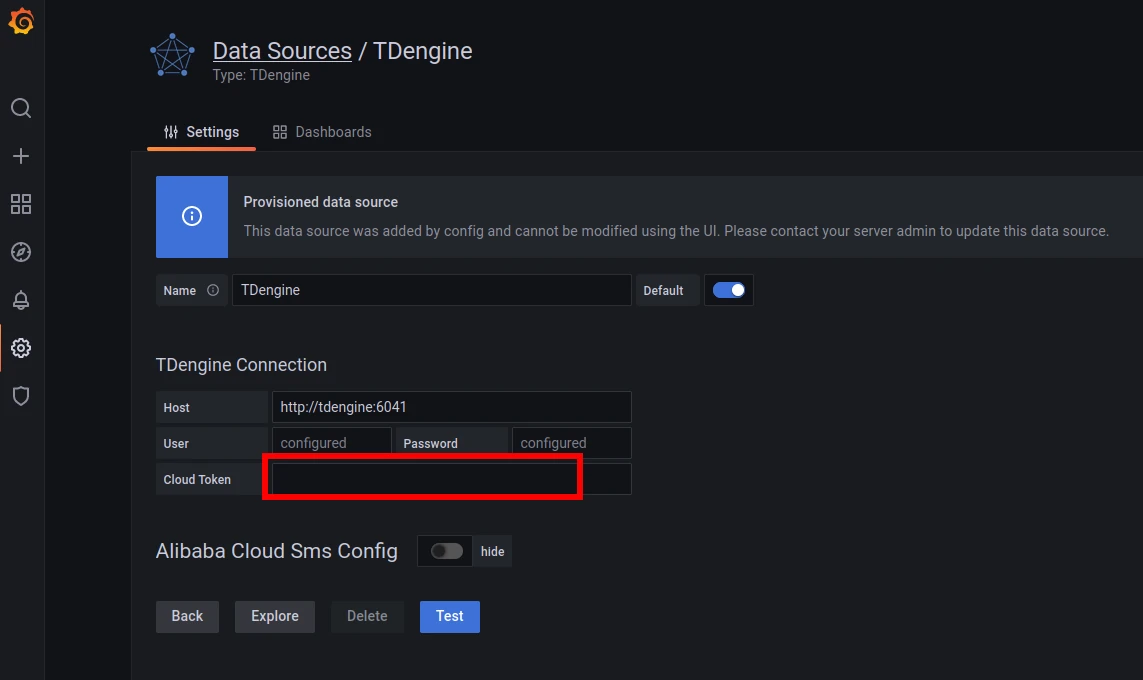
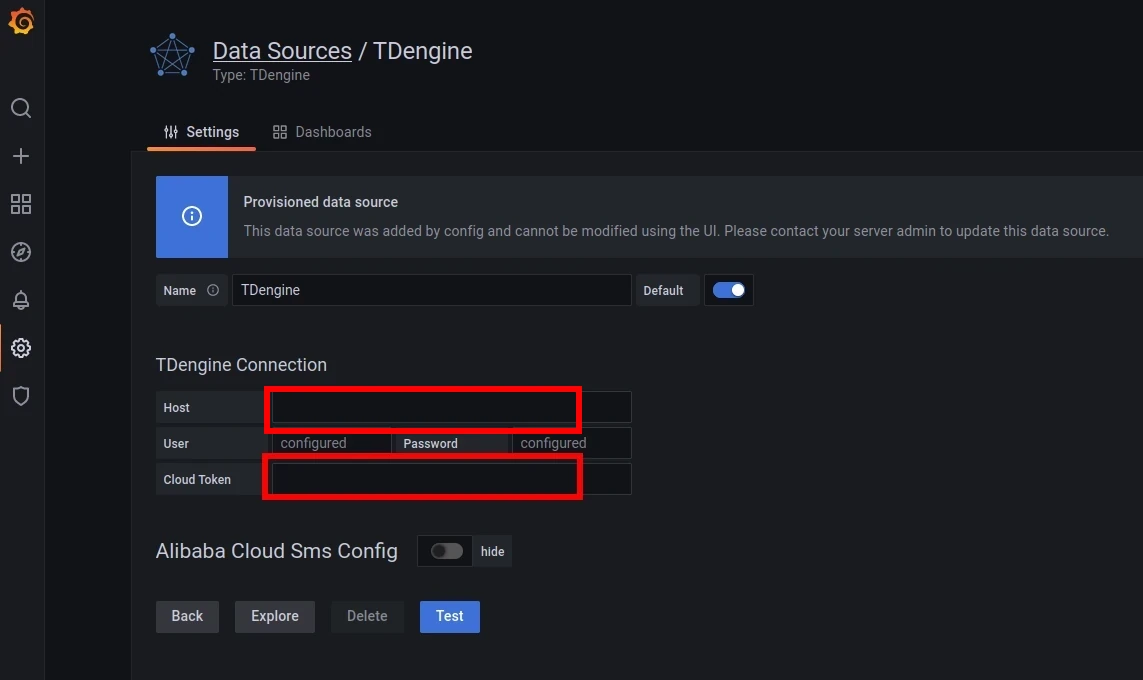
docs: refine cloud doc grafana (#13585)
* docs: describe how grafana connect cloud

* docs: update latest version

* docs: describe how grafana to connect cloud

* docs: refine 08-third-party/01-grafana.md

* docs: update add_datasource4.webp

* docs: refine 08-third-party/01-grafana.md

* docs: update two pics

* docs: refine 01-grafana.md

Changed region(s): [[0.2143, 0.5559, 0.5206, 0.6485], [0.2143, 0.6794, 0.5206, 0.7412]]

diff --git a/docs-en/08-third-party/01-grafana.md b/docs-en/08-third-party/01-grafana.md
@@ -43,29 +43,29 @@ If Grafana is running in a Docker environment, the TDengine plugin can be automa
 GF_INSTALL_PLUGINS=tdengine-datasource
 ```
 
-## Using Grafana
+Users can log in to the Grafana server (initial username/password: admin/admin) directly through the URL `http://localhost:3000` and add a datasource through `Configuration -> Data Sources` on the left side, as shown in the following figure.
 
-### Configuring Data Sources
-
-Users can log in to the Grafana server (username/password: admin/admin) directly through the URL `http://localhost:3000` and add a datasource through `Configuration -> Data Sources` on the left side, as shown in the following figure.
-
-![TDengine Database TDinsight plugin add datasource 1](./grafana/add_datasource1.webp)
+![Grafana add datasource 1](./grafana/add_datasource1.webp)
 
 Click `Add data source` to enter the Add data source page, and enter TDengine in the query box to add it, as shown in the following figure.
 
-![TDengine Database TDinsight plugin add datasource 2](./grafana/add_datasource2.webp)
+![Grafana add datasource 2](./grafana/add_datasource2.webp)
 
 Enter the datasource configuration page, and follow the default prompts to modify the corresponding configuration.
 
-![TDengine Database TDinsight plugin add database 3](./grafana/add_datasource3.webp)
+![Grafana add database 3](./grafana/add_datasource3.webp)
 
-- Host: The URL string the TDengine Cloud assigns for the registered user.
+- Host: Please fill the URL string the TDengine Cloud provides.
 - User: leave it as default.
 - Password: leave it as default.
-- Cloud Token: The token string the TDengine Cloud assigns for the registered user.
+- Cloud Token: Please fill the token string the TDengine Cloud provides.
 
 Click `Save & Test` to test. You should see a success message if the test worked.
 
-![TDengine Database TDinsight plugin add database 4](./grafana/add_datasource4.webp)
+![Grafana add database 4](./grafana/add_datasource4.webp)
 
-Please refer to the [documentation](https://docs.tdengine.com/third-party/grafana#create-dashboard) for more details.
+## Using Grafana
+
+Please add new dashboard or import exist dashboard to illustrate the data you store in the TDengine.
+
+And refer to the [documentation](https://docs.tdengine.com/third-party/grafana#create-dashboard) for more details.
